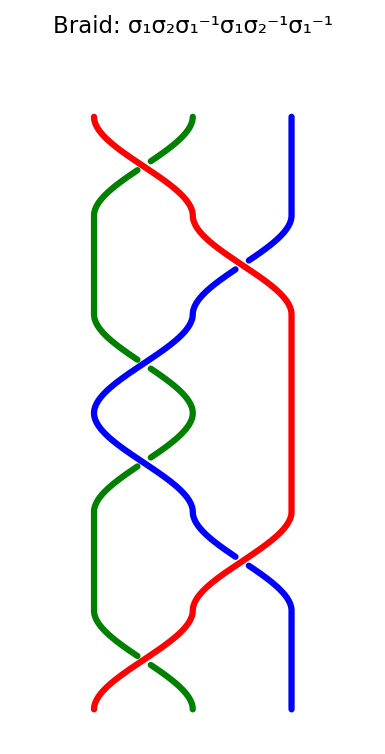
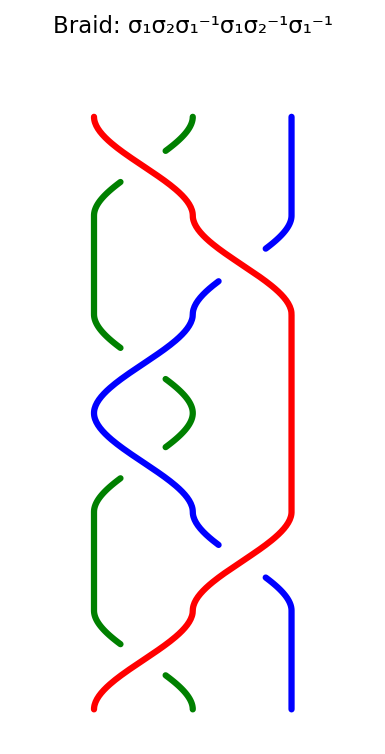
Open the gap at a crossing: this is a diagram, not a photograph
The break was narrowed to 0.11 of the strand spacing to look like a real
braid.  That was the wrong target.  A braid diagram is schematic, and the
break is the only thing saying which strand went behind, so it should be
easy to see rather than easy to miss.

Widened to 0.45, chosen by drawing the same braid at 0.25, 0.35, 0.45 and
0.55 and looking: at 0.45 the over-and-under is unmistakable and each strand
is still traceable.

Checked that a generous break does not swallow a crossing, which is the
thing that could go wrong: across six braids, including one with four
crossings in a row, the number of breaks still equals the number of
generators at every width up to 0.7.

Images regenerated.

diff --git a/src/braidpy/braid_diagram.py b/src/braidpy/braid_diagram.py
@@ -99,7 +99,7 @@ def sample_period(path, n_samples: int) -> np.ndarray:
 def diagram_segments(
     paths: Sequence,
     n_samples: int = 400,
-    gap: float = 0.11,
+    gap: float = 0.45,
 ) -> List[List[np.ndarray]]:
     """Each strand as the pieces of it that are visible from the front.
 
@@ -155,7 +155,7 @@ def draw_diagram(
     braid,
     n_samples: int = 400,
     line_width: float = 3.0,
-    gap: float = 0.11,
+    gap: float = 0.45,
     amplitude: float = 0.28,
     profile: Profile = SMOOTHSTEP,
     color: Optional[str] = None,
@@ -170,7 +170,9 @@ def draw_diagram(
         n_samples: Points along each strand.
         line_width: Thickness of a strand.
         gap: Width of the break where a strand passes behind, as a fraction
-            of the distance between neighbouring strands.
+            of the distance between neighbouring strands.  Generous on
+            purpose: this is a diagram, not a picture of a real braid, and
+            the break is what says which strand went behind.
         amplitude: How far a strand swings out of line as it crosses.  Larger
             is rounder; the crossing is drawn, not just implied.
         profile: How a strand travels sideways — :data:`SMOOTHSTEP` for

diff --git a/src/braidpy/braid.py b/src/braidpy/braid.py
@@ -732,7 +732,7 @@ class Braid:
         self,
         n_samples: int = 400,
         line_width: float = 3.0,
-        gap: float = 0.11,
+        gap: float = 0.45,
         amplitude: float = 0.28,
         profile=None,
         color: Optional[str] = None,
